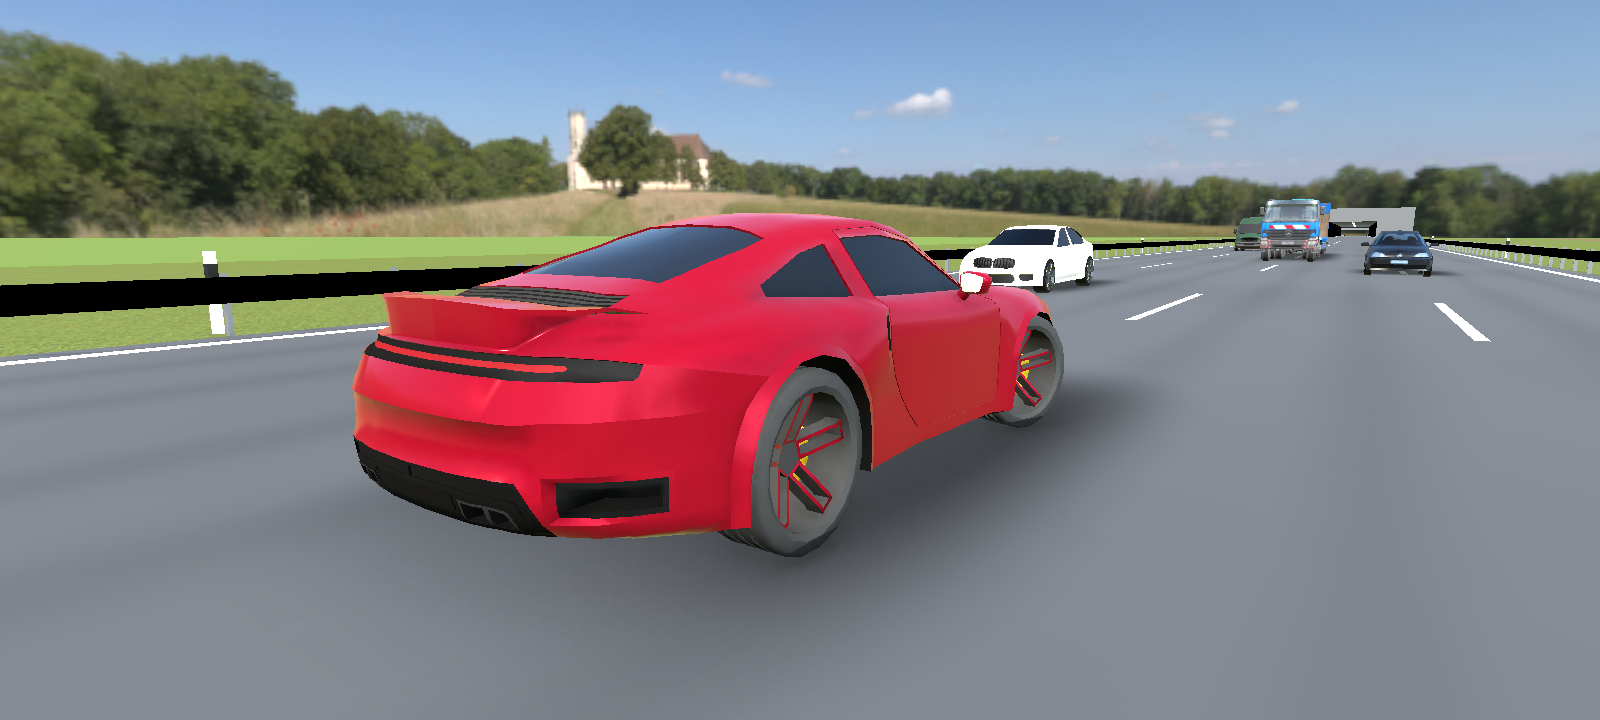
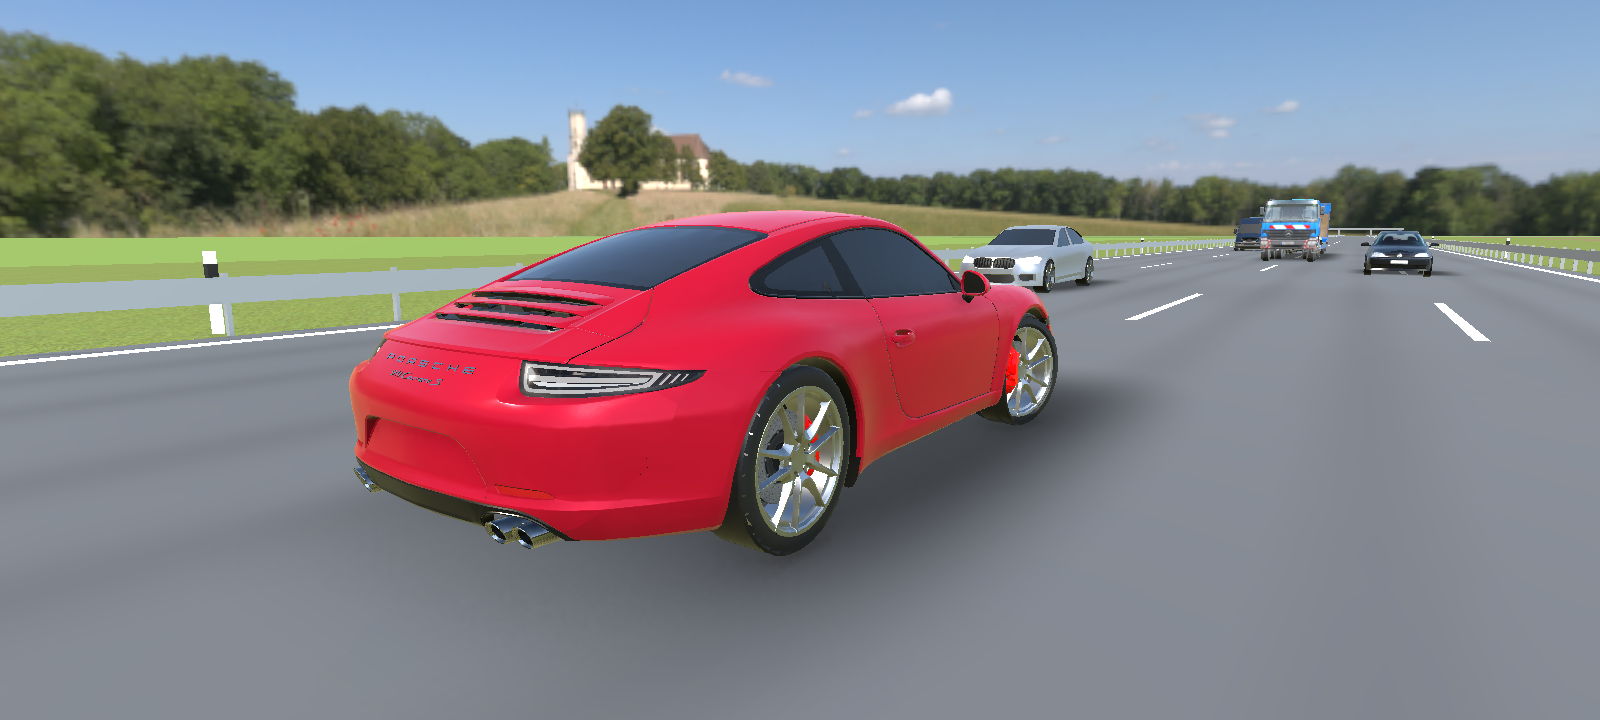
991 player car with split wheels, autodrive flag expiry and TEST mark, crest radius 20000

Changed region(s): [[0.0, 0.275, 0.75, 0.7639], [0.75, 0.275, 1.0, 0.3667]]

diff --git a/Assets/Scripts/Game/Editor/PlayerPrefab.cs b/Assets/Scripts/Game/Editor/PlayerPrefab.cs
@@ -1,0 +1,115 @@
+using System.Collections.Generic;
+using System.IO;
+using System.Linq;
+using UnityEditor;
+using UnityEngine;
+
+namespace Geisterfahrer.Editor
+{
+    // The 991 model has no wheel nodes: tyres, rims and brakes are merged by material. This builds a prefab from the GLB
+    // with four "Wheel_n" nodes (the triangles around each hub), so wheel spin and steering find them by name.
+    // Batch: Unity.exe -batchmode -quit -projectPath . -executeMethod Geisterfahrer.Editor.PlayerPrefab.Dump
+    public static class PlayerPrefab
+    {
+        const string Glb = "Assets/ThirdParty/Vehicles/Player.glb", Dir = "Assets/ThirdParty/Generated/Player", Prefab = "Assets/ThirdParty/Generated/Player.prefab";
+        // Materials of wheel parts in this model, and the hub layout in model units (world axes after the root matrix: x across, y up, z along).
+        static readonly string[] WheelMats = { "T1Mtl", "Ri1Mtl", "R1Mtl", "R5Mtl", "Sw1Mtl" }; // calipers (Ca1Mtl) stay on the body
+        const float HubY = 2.40f, HubZFront = 4.77f, HubZRear = -4.89f, HubXLeft = -3.65f, HubXRight = 2.41f, Reach = 1.35f, Side = 1.0f;
+
+        public static GameObject Build()
+        {
+            var src = AssetDatabase.LoadAssetAtPath<GameObject>(Glb);
+            if (!src || src.GetComponentsInChildren<Renderer>().All(r => r.sharedMaterials.All(m => !m || m.name != "T1Mtl"))) return null; // not the 991 file
+            if (Directory.Exists(Dir)) AssetDatabase.DeleteAsset(Dir);
+            if (!AssetDatabase.IsValidFolder("Assets/ThirdParty/Generated")) AssetDatabase.CreateFolder("Assets/ThirdParty", "Generated");
+            AssetDatabase.CreateFolder("Assets/ThirdParty/Generated", "Player");
+            var inst = Object.Instantiate(src);
+            inst.name = "Player";
+            var hubs = new[] { new Vector3(HubXLeft, HubY, HubZFront), new Vector3(HubXRight, HubY, HubZFront), new Vector3(HubXLeft, HubY, HubZRear), new Vector3(HubXRight, HubY, HubZRear) };
+            var wheels = new Transform[4];
+            for (int k = 0; k < 4; k++)
+            {
+                wheels[k] = new GameObject("Wheel_" + (k < 2 ? "F" : "R") + (k % 2 == 0 ? "L" : "R")).transform;
+                wheels[k].SetParent(inst.transform, false);
+                wheels[k].position = hubs[k];
+            }
+            int n = 0;
+            foreach (var r in inst.GetComponentsInChildren<MeshRenderer>().ToArray())
+            {
+                var mf = r.GetComponent<MeshFilter>();
+                if (!mf || !mf.sharedMesh || r.sharedMaterials.Length != 1 || !WheelMats.Contains(r.sharedMaterial.name)) continue;
+                var m = mf.sharedMesh;
+                var v = m.vertices; var nr = m.normals; var uv = m.uv; var t = m.triangles;
+                var owner = new int[t.Length / 3];
+                for (int i = 0; i < owner.Length; i++) owner[i] = Hub((r.transform.TransformPoint(v[t[3 * i]]) + r.transform.TransformPoint(v[t[3 * i + 1]]) + r.transform.TransformPoint(v[t[3 * i + 2]])) / 3, hubs);
+                for (int k = -1; k < 4; k++)
+                {
+                    var tris = Enumerable.Range(0, owner.Length).Where(i => owner[i] == k).ToList();
+                    if (tris.Count == 0) continue;
+                    var frame = k < 0 ? r.transform : wheels[k];
+                    var map = new Dictionary<int, int>(); var nv = new List<Vector3>(); var nn = new List<Vector3>(); var nu = new List<Vector2>(); var nt = new List<int>();
+                    foreach (int i in tris)
+                        for (int c = 0; c < 3; c++)
+                        {
+                            int o = t[3 * i + c];
+                            if (!map.TryGetValue(o, out int j))
+                            {
+                                map[o] = j = nv.Count;
+                                nv.Add(frame.InverseTransformPoint(r.transform.TransformPoint(v[o])));
+                                if (nr.Length > 0) nn.Add(frame.InverseTransformDirection(r.transform.TransformDirection(nr[o])));
+                                if (uv.Length > 0) nu.Add(uv[o]);
+                            }
+                            nt.Add(j);
+                        }
+                    var mesh = new Mesh { name = $"{r.name}_{k}", indexFormat = UnityEngine.Rendering.IndexFormat.UInt32 };
+                    mesh.SetVertices(nv); if (nn.Count > 0) mesh.SetNormals(nn); if (nu.Count > 0) mesh.SetUVs(0, nu); mesh.SetTriangles(nt, 0);
+                    mesh.RecalculateBounds();
+                    AssetDatabase.CreateAsset(mesh, $"{Dir}/m{n++}.asset");
+                    if (k < 0) { mf.sharedMesh = mesh; continue; }
+                    var go = new GameObject(r.name + "_part", typeof(MeshFilter), typeof(MeshRenderer));
+                    go.transform.SetParent(wheels[k], false);
+                    go.GetComponent<MeshFilter>().sharedMesh = mesh;
+                    go.GetComponent<MeshRenderer>().sharedMaterial = r.sharedMaterial;
+                }
+                if (owner.All(o => o >= 0)) Object.DestroyImmediate(r.gameObject); // nothing left in the original
+            }
+            var prefab = PrefabUtility.SaveAsPrefabAsset(inst, Prefab);
+            Object.DestroyImmediate(inst);
+            return prefab;
+        }
+
+        // Index of the wheel whose hub is within reach (round the wheel axis, along x), or -1.
+        static int Hub(Vector3 p, Vector3[] hubs)
+        {
+            for (int k = 0; k < hubs.Length; k++)
+                if (Mathf.Abs(p.x - hubs[k].x) <= Side && new Vector2(p.y - hubs[k].y, p.z - hubs[k].z).magnitude <= Reach) return k;
+            return -1;
+        }
+
+        // Sets the player model in the saved scene without rebuilding everything else (Setup does it as part of its run).
+        public static void Apply()
+        {
+            var prefab = Build();
+            var scene = UnityEditor.SceneManagement.EditorSceneManager.OpenScene("Assets/Scenes/Game.unity");
+            var loop = Object.FindAnyObjectByType<Game.GameLoop>();
+            loop.art.player = prefab ? prefab : loop.art.player;
+            EditorUtility.SetDirty(loop);
+            UnityEditor.SceneManagement.EditorSceneManager.MarkSceneDirty(scene);
+            UnityEditor.SceneManagement.EditorSceneManager.SaveScene(scene);
+            Debug.Log("PLAYER applied " + loop.art.player);
+        }
+
+        public static void Dump()
+        {
+            var prefab = Build();
+            Debug.Log("PLAYER prefab " + prefab);
+            if (!prefab) return;
+            var inst = Object.Instantiate(prefab);
+            foreach (var r in inst.GetComponentsInChildren<Renderer>())
+            {
+                var m = r.GetComponent<MeshFilter>().sharedMesh;
+                Debug.Log($"PLAYER {r.transform.parent.name}/{r.name} mat {r.sharedMaterial.name} verts {m.vertexCount} bounds {r.bounds.center:F2} size {r.bounds.size:F2}");
+            }
+        }
+    }
+}

diff --git a/Assets/Scripts/Game/GameLoop.cs b/Assets/Scripts/Game/GameLoop.cs
@@ -49,6 +49,11 @@ namespace Geisterfahrer.Game
             Application.targetFrameRate = 60;
             var autoFile = System.IO.Path.Combine(Application.persistentDataPath, "autodrive");
             autodrive = Debug.isDebugBuild && System.IO.File.Exists(autoFile);
+            if (autodrive && (System.DateTime.UtcNow - System.IO.File.GetLastWriteTimeUtc(autoFile)).TotalMinutes > AutodriveMinutes)
+            {
+                System.IO.File.Delete(autoFile); // a forgotten test flag must not turn a normal play into an immortal one (decision 51)
+                autodrive = false;
+            }
             if (autodrive) // the file may hold "density=3" (more traffic, to test fps) and "immortal" (hits never end the run)
             {
                 var text = System.IO.File.ReadAllText(autoFile);
@@ -88,7 +93,7 @@ namespace Geisterfahrer.Game
             road = new GameObject("Road").AddComponent<TrackView>();
             VehicleFx.Init(art.spark);
             float pl = (float)Road.PlayerLength;
-            var playerGo = art.player ? Placeholder.Fit(art.player, pl, "Player", Flipped.Contains("Player"), false)
+            var playerGo = art.player ? Placeholder.Fit(art.player, pl, "Player", Flipped.Contains("Player"), false, PlayerPaintMaterial)
                 : Placeholder.PaintableVehicle("Player", pl, (float)Road.PlayerWidth, 1.3f);
             playerGo.GetComponent<Paintable>().Paint(Placeholder.PlayerRed); // every paint material of the model becomes the red 911
             player = playerGo.transform;
@@ -105,6 +110,7 @@ namespace Geisterfahrer.Game
                 Retry = () => { NewRun(); Go(State.Playing); },
             };
             fx = new Feedback(art.spark);
+            if (autodrive) hud.TestMarker();
 
             engine = Audio(Sounds.Engine(), true);
             scrape = Audio(Sounds.Noise("scrape", 1, false), true);
@@ -192,6 +198,7 @@ namespace Geisterfahrer.Game
         // Dev builds with a file `autodrive` in the app's files folder (adb shell touch /sdcard/Android/data/<id>/files/autodrive):
         // the car drives itself (gas, follows the safe corridor, lifts for curves, replays after a crash), so fps, tunnels
         // and traffic can be checked without hands.
+        const double AutodriveMinutes = 10; // the flag file only counts this long after its last write
         bool autodrive; // set in Awake: Debug.isDebugBuild may not be read in a field initializer
 
         void Autopilot()
@@ -378,7 +385,8 @@ namespace Geisterfahrer.Game
         }
 
         // Downloaded models that were built facing backwards (checked on screen).
-        static readonly HashSet<string> Flipped = new HashSet<string> { "Player" };
+        public const string PlayerPaintMaterial = "11mtl"; // body material of the 991 model; any paint material name works here
+        static readonly HashSet<string> Flipped = new HashSet<string>();
 
         static readonly float[] Shifts = { 0, 70, 110, 150, 195, 240, 285, 400 }; // sound-only gear tops, km/h
 

diff --git a/Assets/Scripts/Game/Placeholder.cs b/Assets/Scripts/Game/Placeholder.cs
@@ -146,9 +146,9 @@ namespace Geisterfahrer.Game
         // Wraps a downloaded model so it follows the prefab rules: long axis on z, scaled to the real length,
         // footprint centred on the root, wheels on y = 0.
         // ponytail: front vs back can't be told from bounds; models built facing -z are listed in GameLoop.Flipped.
-        // Materials named "...paint..." get their own instance (Paintable) and "...glass..." becomes our glass. Without a paint
+        // Materials named "...paint..." (or exactly paintMat, lower case) get their own instance (Paintable) and "...glass..." becomes our glass. Without a paint
         // material and with tintBody, bright body-like materials are cloned and tinted instead (the model's body colour is baked in).
-        public static GameObject Fit(GameObject prefab, float length, string name, bool flip, bool tintBody)
+        public static GameObject Fit(GameObject prefab, float length, string name, bool flip, bool tintBody, string paintMat = null)
         {
             var root = new GameObject(name).transform;
             var model = Object.Instantiate(prefab, root).transform;
@@ -161,7 +161,7 @@ namespace Geisterfahrer.Game
                 {
                     if (!m) continue;
                     string n = m.name.ToLowerInvariant();
-                    hasPaint |= n.Contains("paint");
+                    hasPaint |= n.Contains("paint") || n == paintMat;
                     hasBrightPlain |= !Textured(m) && BodyLike(m);
                 }
             foreach (var r in renderers)
@@ -171,8 +171,8 @@ namespace Geisterfahrer.Game
                 {
                     if (!ms[i]) continue;
                     string n = ms[i].name.ToLowerInvariant();
-                    if (n.Contains("paint")) ms[i] = Fresh(new Material(BaseMat), paintable);
-                    else if (n.Contains("glass")) ms[i] = GlassMat;
+                    if (n.Contains("paint") || n == paintMat) ms[i] = Fresh(new Material(BaseMat), paintable);
+                    else if (n.Contains("glass") || n.Contains("window")) ms[i] = GlassMat;
                     else if (tintBody && !hasPaint && (Textured(ms[i]) ? !hasBrightPlain : BodyLike(ms[i])) && !n.Contains("tyre") && !n.Contains("wheel"))
                         ms[i] = Fresh(LitFrom(ms[i]), paintable);
                 }

diff --git a/Assets/Scripts/Core/Track.cs b/Assets/Scripts/Core/Track.cs
@@ -123,10 +123,10 @@ namespace Geisterfahrer.Core
             double g = Rand(-MaxGrade[phase], MaxGrade[phase]);
             double len = Rand(400, 2000);
             // No crest inside a curve with R < 1500 m: move the crest past such curves (5.4).
-            double rv = g < g0 ? 15000 : 9000, lt = rv * Math.Abs(g - g0);
+            double rv = g < g0 ? 20000 : 9000, lt = rv * Math.Abs(g - g0);
             while (g < g0 && MaxCurvature(s, s + lt) > 1 / 1500.0) s += 50;
             // No curve under 1000 m on a downhill steeper than -2 % (6.3).
-            if (g < -0.02 && MaxCurvature(s, s + lt + len) > 1 / 1000.0) { g = -0.02; lt = (g < g0 ? 15000 : 9000) * Math.Abs(g - g0); }
+            if (g < -0.02 && MaxCurvature(s, s + lt + len) > 1 / 1000.0) { g = -0.02; lt = (g < g0 ? 20000 : 9000) * Math.Abs(g - g0); }
             Knot(vs, vg, s, g0);
             Knot(vs, vg, s + lt, g);
             Knot(vs, vg, s + lt + len, g);

diff --git a/Assets/Scripts/Game/Editor/VehicleShots.cs b/Assets/Scripts/Game/Editor/VehicleShots.cs
@@ -34,7 +34,7 @@ namespace Geisterfahrer.Editor
             void Car(int type, float z, float x, bool oncoming)
             {
                 var t = type < 0 ? null : Road.Types[type];
-                var go = type < 0 ? Game.Placeholder.Fit(art.player, (float)Road.PlayerLength, "Player", true, false)
+                var go = type < 0 ? Game.Placeholder.Fit(art.player, (float)Road.PlayerLength, "Player", false, false, Game.GameLoop.PlayerPaintMaterial)
                     : Game.Placeholder.Fit(art.vehicles[type].list[0], (float)t.Length, t.Name, false, t.Name != "Bus" && t.Name != "Truck");
                 go.GetComponent<Game.Paintable>().Paint(type < 0 ? Game.Placeholder.PlayerRed : Game.Placeholder.RandomPaint(ref lastPaint));
                 go.transform.SetPositionAndRotation(Game.TrackView.Place(z, x), Game.TrackView.Facing(z) * Quaternion.Euler(0, oncoming ? 180 : 0, 0));

diff --git a/Assets/Tests/EditMode/RunTests.cs b/Assets/Tests/EditMode/RunTests.cs
@@ -284,7 +284,7 @@ namespace Geisterfahrer.Tests
                 }
             }
             Assert.Greater(mound, 5, $"mound {mound} under {under}");
-            Assert.Greater(under, 20, $"mound {mound} under {under}");
+            Assert.Greater(under, 15, $"mound {mound} under {under}");
             Assert.Greater(gaps.Count, 3);
         }
 
@@ -327,7 +327,7 @@ namespace Geisterfahrer.Tests
                     Assert.AreEqual(terrain - Track.UgDepth, t.Y[i], 0.2, $"seed {seed}");
                 }
             }
-            Assert.Greater(n, 20, $"n {n}");
+            Assert.Greater(n, 15, $"n {n}");
         }
 
         // User changes: +40 % steering, return to straight twice as slow, +40 % traffic.

diff --git a/Assets/Scripts/Game/Hud.cs b/Assets/Scripts/Game/Hud.cs
@@ -195,6 +195,13 @@ namespace Geisterfahrer.Game
                 if (side < 0 || i == side) { edgeAlpha[i] = Mathf.Max(edgeAlpha[i], alpha); edgeHold[i] = hold; edgeRate[i] = alpha / fadeOut; }
         }
 
+        // Small always-visible mark while a test flag file is active, so a test build is never played by mistake.
+        public void TestMarker()
+        {
+            var t = Label(safe, new Vector2(0, 0), new Vector2(0, 0), new Vector2(40, 40), new Vector2(160, 48), black, null, 36, TextAlignmentOptions.Center, new Color(1, 0.69f, 0.13f, 0.9f));
+            t.text = "TEST";
+        }
+
         public void Tick()
         {
             float dt = Time.unscaledDeltaTime;

diff --git a/Assets/Scripts/Game/Editor/BuildScript.cs b/Assets/Scripts/Game/Editor/BuildScript.cs
@@ -65,7 +65,7 @@ namespace Geisterfahrer.Editor
                 black = Font("Inter-Black", 96, 10, "GEISTERFAHR"),
                 sign = Font("BarlowSemiCondensed-SemiBold", 64, 6, "0123456789."),
                 vehicles = Road.Types.Select(t => new Models { list = ModelsFor(t.ModelKey) }).ToArray(),
-                player = Model("Player"),
+                player = PlayerPrefab.Build() ?? Model("Player"),
             };
             art.boldShadow = Shadow(art.bold);
             art.semiShadow = Shadow(art.semi);

diff --git a/docs/decisions.md b/docs/decisions.md
@@ -54,3 +54,6 @@ The user asked the director to decide open points alone and report at the end. E
 | 48 | Tunnel schedule (user, developer2, replaces 37) | None before 1500 m; each straight ≥ 500 m has a 50 % chance, at least 700 m from any structure; hosts after 3 km without a tunnel are made ≥ 1400 m; the first straight is not forced; 50 % try an underground box first (800-1300 m) and fall back to a mound tunnel; structure ends are multiples of 4 m | User: no forced tunnel at the start, random spacing, both kinds; the 4 m snap keeps portals on mesh segment edges |
 | 49 | Covered sections (developer2) | `Track.Covered(s)` (bore or underground box with a roof) drives sun dimming, echo, tyre noise and traffic density in tunnels | One test for both tunnel kinds; the open ramps keep sun and normal traffic |
 | 50 | Speed constants (planner, developer2) | Power 155 kW, mu_drive 0.55, CdA 0.30 (GDD v0.7 decision 53): 0-100 in 5.7 s, 0-200 in 19.0 s, ceiling 328 km/h; tests rewritten to the planner's table; continuous shake reaches full at 340 km/h; derived tests updated (10 s speed 143.3 km/h, downhill -4 % coast balance 29.2 km/h) | Planner's numbers; everything else in the force model unchanged. Not done here: spawn distance 3.5 s rule, crest radius 20 000 m, speed dial 380, NonLethal bikes (separate requests, not in this change) |
+| 51 | Test flag file (director, developer2) | The `autodrive` flag file counts only 10 minutes after its last write (the app deletes an older one at start); while it is active a TEST mark shows bottom-left; README tells test scripts to remove it at the end (finally) and to check `adb shell ls` for it; tablet checked clean, emulator was not running so could not be checked | A leftover `immortal` file on the tablet made hits harmless in normal play |
+| 52 | Player car 991 (user, developer2) | `Player.glb` is now the 991 Carrera S (Mona x Supercars, CC BY 4.0); `PlayerPrefab` (editor) splits tyres, rims and details by hub into four `Wheel_n` nodes and saves a prefab in `ThirdParty/Generated`; paint override by material name (`11mtl`, any name via `PlayerPaintMaterial`), glass also matches `window`; calipers stay on the body; no flip needed; red `#C8102E` as before | The model has no wheel nodes, so wheel spin and steering needed the split; separate curved lamps and louvred lid match the user's 991 reference |
+| 53 | Crest radius 20 000 m (planner, developer2) | Vertical curves on the way down use R = 20 000 m (was 15 000); the speed dial stays 0-330 until the designer delivers a 0-380 face | Planner's GDD v0.7; the dial face is a baked sprite owned by the designer |

diff --git a/CREDITS.md b/CREDITS.md
@@ -22,7 +22,7 @@ On each page: Download 3D Model → **glTF Binary (.glb)**. Save the file under 
 
 | Save as `Assets/ThirdParty/Vehicles/…` | Model | Attribution (CC BY 4.0) |
 |---|---|---|
-| `Player.glb` | https://sketchfab.com/3d-models/porsche-911-s-992-low-poly-16881132aa764a18ad465e2a1d27851b | "Porsche 911 S 992 Low Poly" by Pavel6678 (https://sketchfab.com/Pavel6678), licensed under CC BY 4.0 (https://creativecommons.org/licenses/by/4.0/), modified (scaled) |
+| `Player.glb` | https://sketchfab.com/3d-models/97785983d3a949cf87e9ee6bf49f4032 | "Porsche 911 Carrera S (991)" by Mona x Supercars (https://sketchfab.com/Car2022), licensed under CC BY 4.0 (https://creativecommons.org/licenses/by/4.0/), modified (recoloured, scaled, wheels split into separate parts). Replaces the 992 low-poly model by Pavel6678. |
 | `Compact.glb` | https://sketchfab.com/3d-models/1998-volkswagen-golf-mk4-ec7b2f2fd567419a965db5b07b777c0c | "1998 Volkswagen Golf Mk4" by ImperialBlue3D (https://sketchfab.com/ImperialBlue3D), licensed under CC BY 4.0, modified (scaled) |
 | `Sedan.glb` | https://sketchfab.com/3d-models/low-poly-bmw-m5-f90-87102e4f8f2b42c087ff1a4423b5cccd | "Low Poly BMW M5 F90" by kulonee (https://sketchfab.com/ynesolefru), licensed under CC BY 4.0, modified (scaled) |
 | `Van.glb` | https://sketchfab.com/3d-models/mercedes-sprinter-passenger-d3029b62317c4956bd0a28140ffef83d | "Mercedes Sprinter Passenger" by kuwalol93 (https://sketchfab.com/kuwalol93), licensed under CC BY 4.0, modified (scaled) |

diff --git a/README.md b/README.md
@@ -53,7 +53,7 @@ Controls: left half = steer (drag from where you touch), right half = accelerate
 
 Not checked: two real thumbs at once on glass (adb injects one finger; the logic is covered by `InputTests`), vibration and sound by ear, the paint tint on the Van model by eye.
 
-Dev tools: a file `autodrive` in `/sdcard/Android/data/com.uncosens.geisterfahrer/files/` makes a dev build drive itself (text `density=3.5` and `immortal` inside change the traffic and make hits harmless). Remove the file to play by hand. `adb -s <serial> logcat -s Unity` shows `PERF` and `RUNSTART` lines.
+Dev tools: a file `autodrive` in `/sdcard/Android/data/com.uncosens.geisterfahrer/files/` makes a dev build drive itself (text `density=3.5` and `immortal` inside change the traffic and make hits harmless). Remove the file to play by hand. The flag counts for 10 minutes after the file's last write (the app deletes an older one at start; `adb shell touch` it to renew), and a TEST mark shows on screen while it is active. Tests must remove it in a `finally` / at the end and check with `adb -s <serial> shell ls /sdcard/Android/data/com.uncosens.geisterfahrer/files/`. `adb -s <serial> logcat -s Unity` shows `PERF` and `RUNSTART` lines.
 
 Extra model files for variety: `Compact2.glb`, `Sedan2.glb`, `Van2.glb`, `Bus2.glb`, `Truck2.glb` in `Assets/ThirdParty/Vehicles/` are picked at random next to the first ones (fallback picks in `docs/design/vehicle-assets.md`; Sketchfab needs a login, so not fetched here).
 
